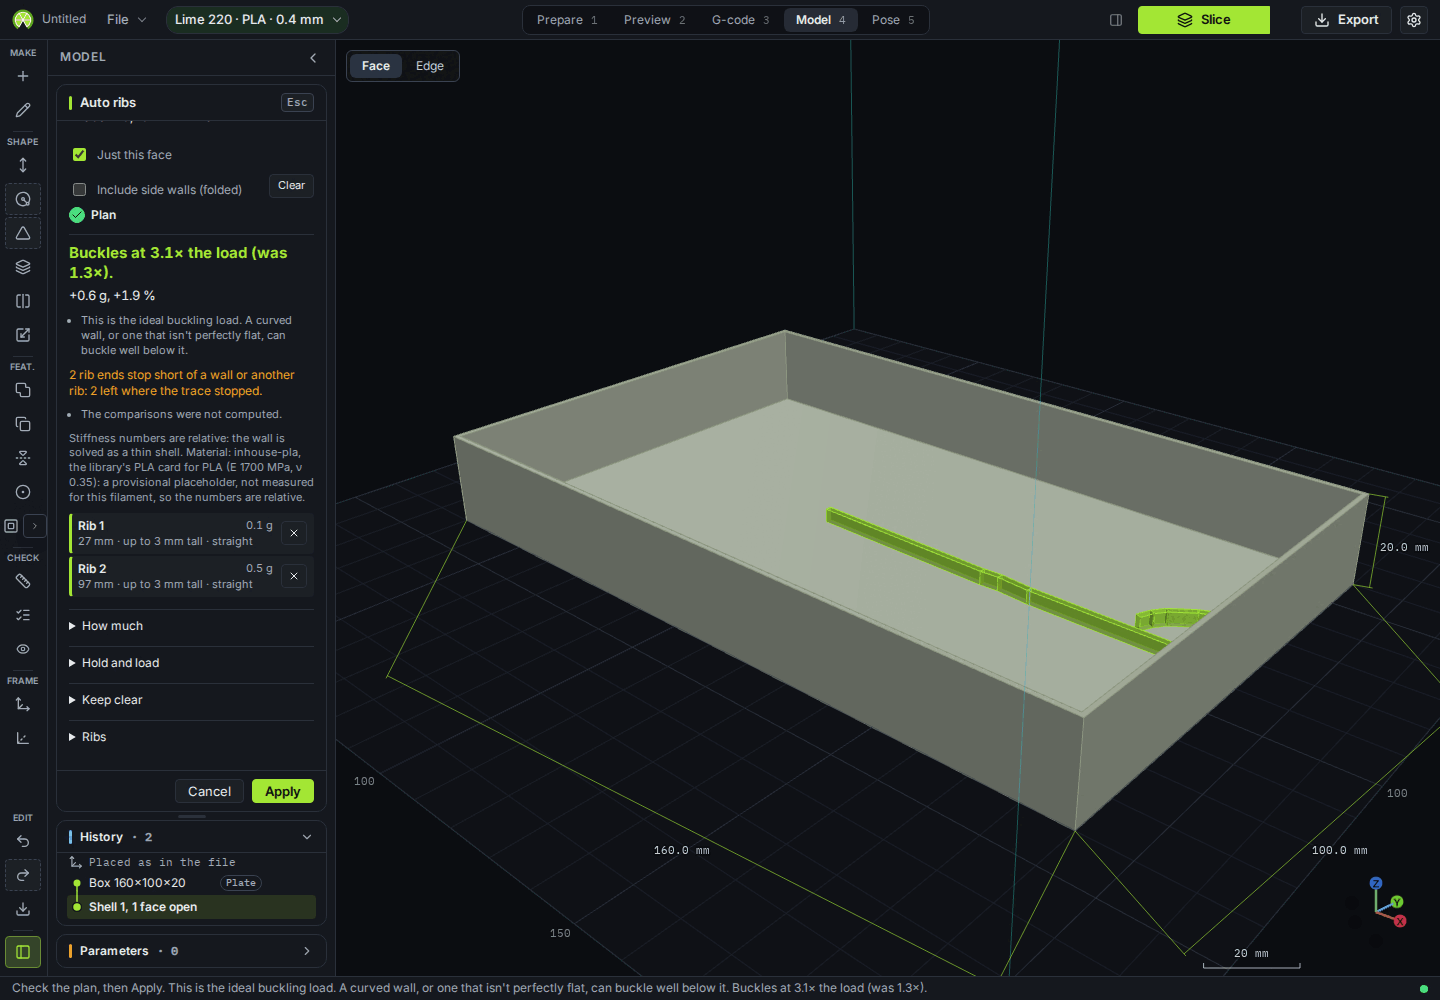
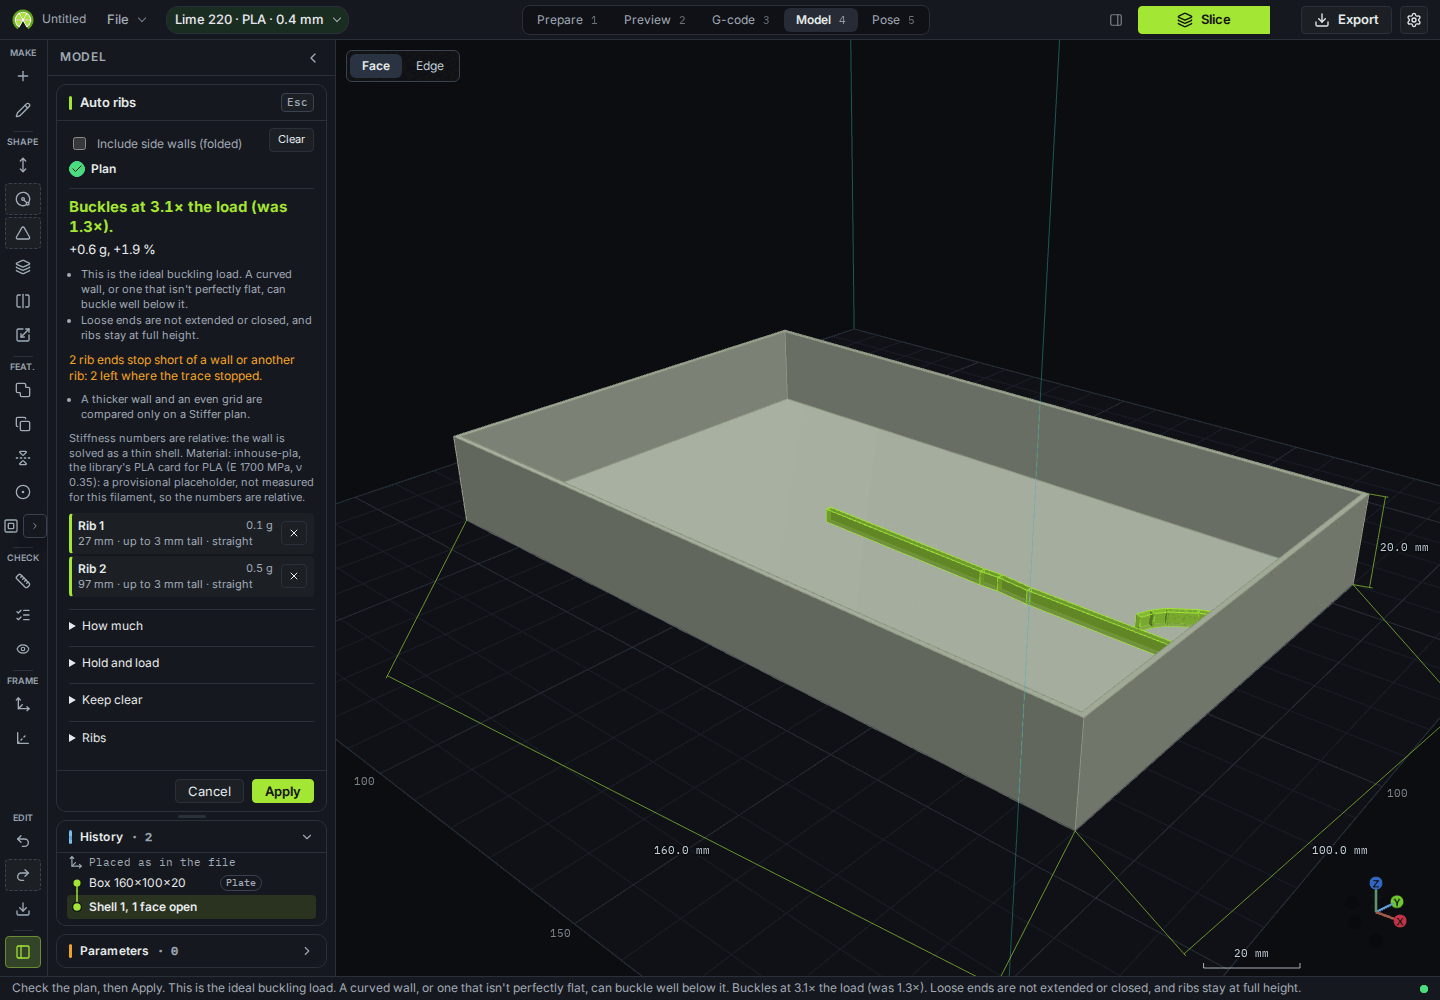
docs: retake the buckling picture after the card notes
The same 160 × 100 mm floor at 750 N now shows the two sentences from the buckling card: loose ends stay as traced, and comparisons belong to a Stiffer plan. The orange line that two rib ends stop short is still on the card, so the alt names it.

diff --git a/tools/readme-media/ribs.media.ts b/tools/readme-media/ribs.media.ts
@@ -78,9 +78,10 @@ test("resist buckling on a wide thin panel", async ({ page }) => {
   const goalText = (await goal.isVisible()) ? (await goal.innerText()).replace(/\s+/g, " ").trim() : "";
   const compare = (await page.locator("#autoRibsCompare").innerText()).replace(/\s+/g, " ").trim();
   const notes = (await page.locator("#autoRibsNotes").innerText()).replace(/\s+/g, " ").trim();
-  const loose = /stop short/.test(goalText);
-  const compared = /thicker/.test(compare) && !/not computed/.test(compare) && !/Stopped before/.test(compare);
   const lines = (await page.locator("#autoRibsList [data-rib]").allInnerTexts()).map((t) => t.replace(/\s+/g, " ").trim());
+  const card = [goalText, compare, notes].join(" \n ");
+  const loose = /stop short/.test(card);
+  const notComputed = /not computed/.test(card);
   console.log(`ribs-buckling box ${BOX.modelDx} × ${BOX.modelDy} × ${BOX.modelDz} mm, shell ${THICK} mm`);
   console.log(`ribs-buckling force ${force} N`);
   console.log(`ribs-buckling section ${WIDTH} mm × ${THICK} mm`);
@@ -88,9 +89,9 @@ test("resist buckling on a wide thin panel", async ({ page }) => {
   console.log(`ribs-buckling bare ${bare}×, ribbed ${ribbed}×`);
   console.log(`ribs-buckling ribs ${ribs}`);
   console.log(`ribs-buckling rib lines: ${lines.join(" | ") || "(none)"}`);
-  console.log(`ribs-buckling comparisons computed: ${compared}`);
-  console.log(`ribs-buckling compare: ${compare}`);
   console.log(`ribs-buckling loose-end warning: ${loose}`);
+  console.log(`ribs-buckling not-computed line: ${notComputed}`);
+  console.log(`ribs-buckling compare: ${compare}`);
   console.log(`ribs-buckling goal: ${goalText || "(none)"}`);
   console.log(`ribs-buckling notes: ${notes}`);
   await page.locator("#autoRibsHoldLoad").evaluate((el) => {
@@ -105,11 +106,13 @@ test("resist buckling on a wide thin panel", async ({ page }) => {
   await page.mouse.wheel(0, -1400);
   await page.waitForTimeout(400);
   await page.locator("#autoRibsGain").scrollIntoViewIfNeeded();
-  // The alt quotes this plan. A finished buckling plan leaves the stiffness baselines empty, so the card says
-  // they were not computed, and it does not run the extension pass, so the short rib is listed as stopping short.
-  if (force !== 750 || bare !== 1.3 || ribbed !== 3.1 || ribs !== 2 || !loose || compared) {
+  const traced = "Loose ends are not extended or closed, and ribs stay at full height.";
+  const stiff = "A thicker wall and an even grid are compared only on a Stiffer plan.";
+  // The notes and the comparison line are the #793 sentences. The orange goal line is still
+  // looseLine when a trace stops short; the picture shows it, and the alt names it.
+  if (force !== 750 || bare !== 1.3 || ribbed !== 3.1 || ribs < 2 || notComputed || !notes.includes(traced) || compare !== stiff) {
     await page.screenshot({ path: "/tmp/ribs-last.png" });
-    throw new Error(`plan is not the picture the alt describes: ${force} N, ${ribs} ribs, loose ${loose}, bare ${bare}×, ribbed ${ribbed}×, comparisons ${compared}`);
+    throw new Error(`plan is not the picture the alt describes: ${force} N, ${ribs} ribs, loose ${loose}, notComputed ${notComputed}, bare ${bare}×, ribbed ${ribbed}×, notes: ${notes}, compare: ${compare}`);
   }
   await expect(page.locator(".toast-error")).toHaveCount(0);
   const box = (await page.locator("#model").boundingBox())!;

diff --git a/docs/readme-media.md b/docs/readme-media.md
@@ -12,7 +12,7 @@ The pictures and clips in `README.md` are made by `tools/readme-media`, so they 
 | `clip-gear-train.gif` | `pose.media.ts` | three gears built by `mcp-media.ts`, coupled in Pose and turned |
 | `clip-escapement.gif` | `mcp-media.ts` | a Graham escapement run by `motion_run` and drawn by the MCP server |
 | `stress-cantilever.png` | `stress.media.ts` | the Stress worked example, with the engine's recorded reply (`e2e/fixtures/sim-cantilever.json`) |
-| `ribs-buckling.png` | `ribs.media.ts` | a 160 × 100 × 20 mm box, shelled to a 1 mm wall with the top open, then Auto ribs on the inner floor at Resist buckling (the default 3×). The force, 750 N along the 160 mm side, goes through the 100 mm × 1 mm section (7.5 MPa). The card shows "Buckles at 3.1× the load (was 1.3×).", the ideal-load warning, "2 rib ends stop short of a wall or another rib", and "The comparisons were not computed." |
+| `ribs-buckling.png` | `ribs.media.ts` | a 160 × 100 × 20 mm box, shelled to a 1 mm wall with the top open, then Auto ribs on the inner floor at Resist buckling (the default 3×). The force, 750 N along the 160 mm side, goes through the 100 mm × 1 mm section (7.5 MPa). The card shows "Buckles at 3.1× the load (was 1.3×).", the ideal-load warning, "Loose ends are not extended or closed, and ribs stay at full height.", "2 rib ends stop short of a wall or another rib", and "A thicker wall and an even grid are compared only on a Stiffer plan." |
 | `model-parts.png` | `parts.media.ts` | the Part card with its kind select open on Fasteners, Fittings, Brackets and Pulleys, and three parts the script built: a Nut M6, a GT2 pulley of 20 teeth and an L-bracket 40 × 30 × 3, M4 |
 | `prepare-phone.png`, `preview-phone.png`, `model-phone.png` | `phone.media.ts` | the compact layout at 390 × 844 |
 

diff --git a/README.md b/README.md
@@ -117,7 +117,7 @@ The worked example and the trust levels are in [docs/modeler-guide.md](docs/mode
 - **Side walls.** Include side walls (folded) takes a cover's side walls into the same wall across its sharp edges, so ribs can run over a crease. It is off unless checked.
 - **Moulding checks.** With the moulded process, the result lists each moulding rule a rib breaks: base thickness, root radius, height, draft, the junction where ribs meet, and the gap between ribs. It is a report and changes nothing.
 
-<img alt="Auto ribs, Resist buckling, on the inner floor of a 160 × 100 × 20 mm box shelled to a 1 mm wall with the top open. The floor is 15,484 mm². A 750 N force along the floor goes through the 100 mm × 1 mm section, 7.5 MPa. The card says Buckles at 3.1× the load (was 1.3×), that this is the ideal buckling load, that 2 rib ends stop short of a wall, and that the comparisons were not computed." src="docs/screenshots/ribs-buckling.png" width="720">
+<img alt="Auto ribs, Resist buckling, on the inner floor of a 160 × 100 × 20 mm box shelled to a 1 mm wall with the top open. The floor is 15,484 mm². A 750 N force along the floor goes through the 100 mm × 1 mm section, 7.5 MPa. The card says Buckles at 3.1× the load (was 1.3×), that this is the ideal buckling load, that loose ends are not extended or closed and ribs stay at full height, that 2 rib ends stop short of a wall, and that a thicker wall and an even grid are compared only on a Stiffer plan." src="docs/screenshots/ribs-buckling.png" width="720">
 
 The stiffness numbers are relative, since the material cards are placeholders. Over MCP the same planner is `ribs_plan` and `ribs_apply`.
 
